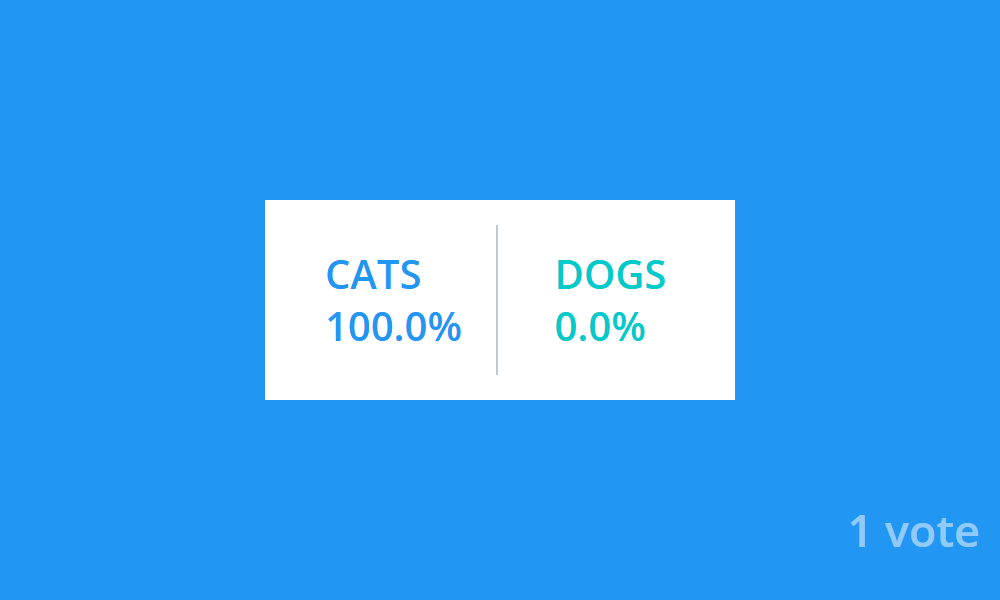
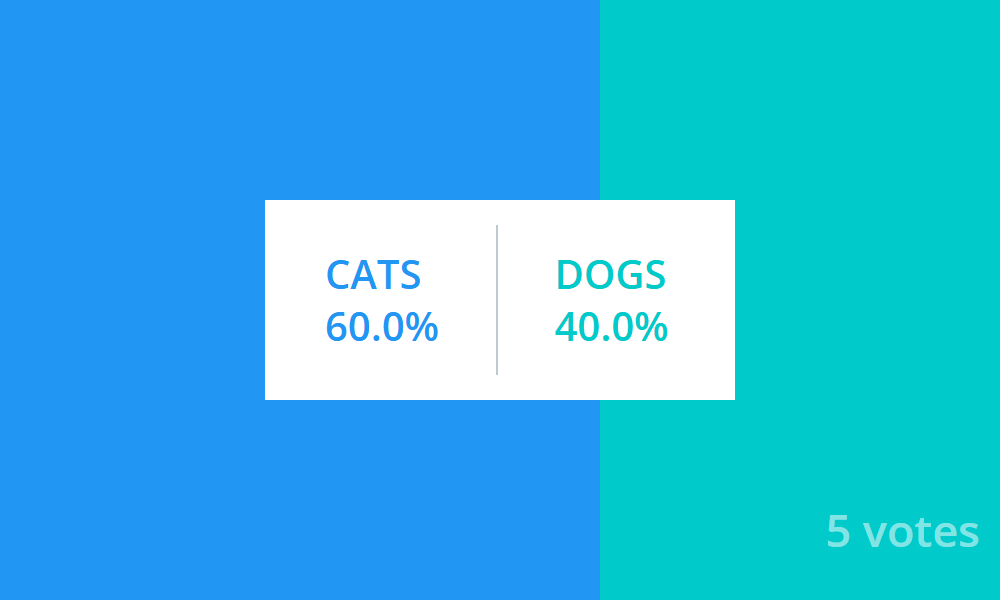
TD3 ex.2: mixed votes (3 Cats, 2 Dogs) in the result screenshots

diff --git a/voting-app/TD3.md b/voting-app/TD3.md
@@ -71,10 +71,11 @@ docker compose ps --format 'table {{.Name}}\t{{.Image}}\t{{.Status}}\t{{.Ports}}
   <img src="screenshots/td3-08-vote-local.png" alt="Site de vote en local">
 </p>
 
-On vote une fois pour **Cats**. Ici, on passe par `curl`, ce qui revient à cliquer sur le bouton :
+On envoie 5 votes : 3 pour **Cats** et 2 pour **Dogs**. Ici, on passe par `curl`, ce qui revient à cliquer sur les boutons :
 
 ```bash
-curl -X POST -d vote=a http://localhost:8080/
+curl -X POST -d vote=a http://localhost:8080/   # Cats, 3 fois
+curl -X POST -d vote=b http://localhost:8080/   # Dogs, 2 fois
 ```
 
 **Le site des résultats**, sur http://localhost:8081 :
@@ -83,8 +84,8 @@ curl -X POST -d vote=a http://localhost:8080/
   <img src="screenshots/td3-09-result-local.png" alt="Site des résultats en local">
 </p>
 
-Le vote apparaît : **1 vote**, 100 % pour Cats.
-<br/>Il a fait tout le trajet : le site de vote l'a posé dans redis, le worker l'a enregistré dans la base, et le site des résultats l'a lu.
+Les votes apparaissent : **5 votes**, 60 % pour Cats et 40 % pour Dogs.
+<br/>Ils ont fait tout le trajet : le site de vote les a posés dans redis, le worker les a enregistrés dans la base, et le site des résultats les a lus.
 
 Une fois le test terminé, on arrête l'application avec `docker compose down`.
 
@@ -184,7 +185,12 @@ Il reste à ajouter les 2 nouvelles adresses dans le fichier hosts :
   <img src="screenshots/td3-13-vote-traefik.png" alt="Site de vote servi par Traefik">
 </p>
 
-On vote une nouvelle fois pour **Cats**, avec `curl -X POST -d vote=a http://vote.swarm.localhost/`.
+On envoie de nouveau 5 votes, 3 pour **Cats** et 2 pour **Dogs** :
+
+```bash
+curl -X POST -d vote=a http://vote.swarm.localhost/   # Cats, 3 fois
+curl -X POST -d vote=b http://vote.swarm.localhost/   # Dogs, 2 fois
+```
 
 **Le site des résultats**, sur http://result.swarm.localhost :
 
@@ -192,6 +198,6 @@ On vote une nouvelle fois pour **Cats**, avec `curl -X POST -d vote=a http://vot
   <img src="screenshots/td3-14-result-traefik.png" alt="Site des résultats servi par Traefik">
 </p>
 
-Le vote apparaît : **1 vote**, 100 % pour Cats.
-<br/>La base du cluster est neuve, d'où un seul vote, et non 2 avec celui du test en local.
+Les votes apparaissent : **5 votes**, 60 % pour Cats et 40 % pour Dogs.
+<br/>La base du cluster est différente de celle du test en local : on ne retrouve que les votes envoyés au cluster.
 <br/>Les 2 sites sont donc accessibles depuis le PC, chacun à sa propre adresse, sans retenir aucun port.
